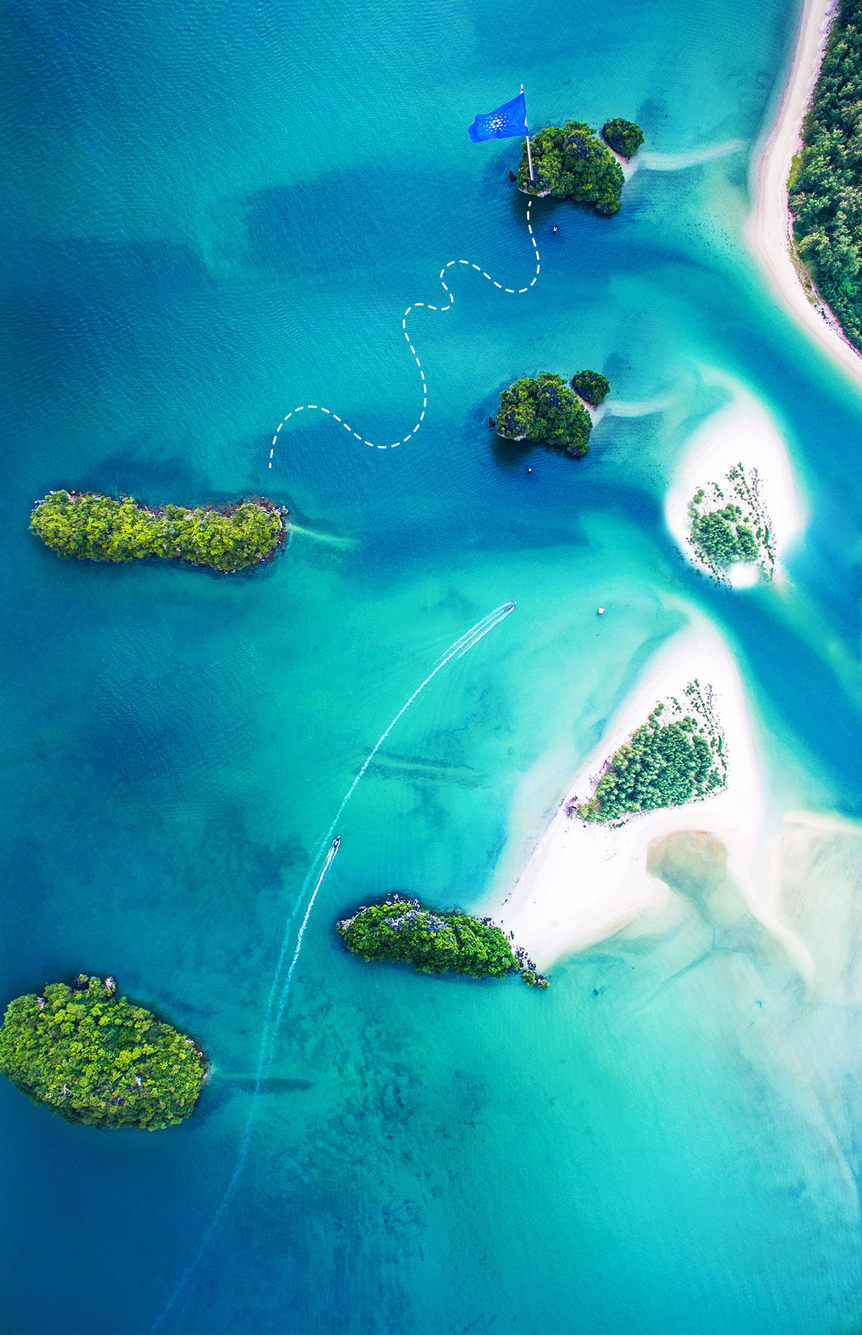
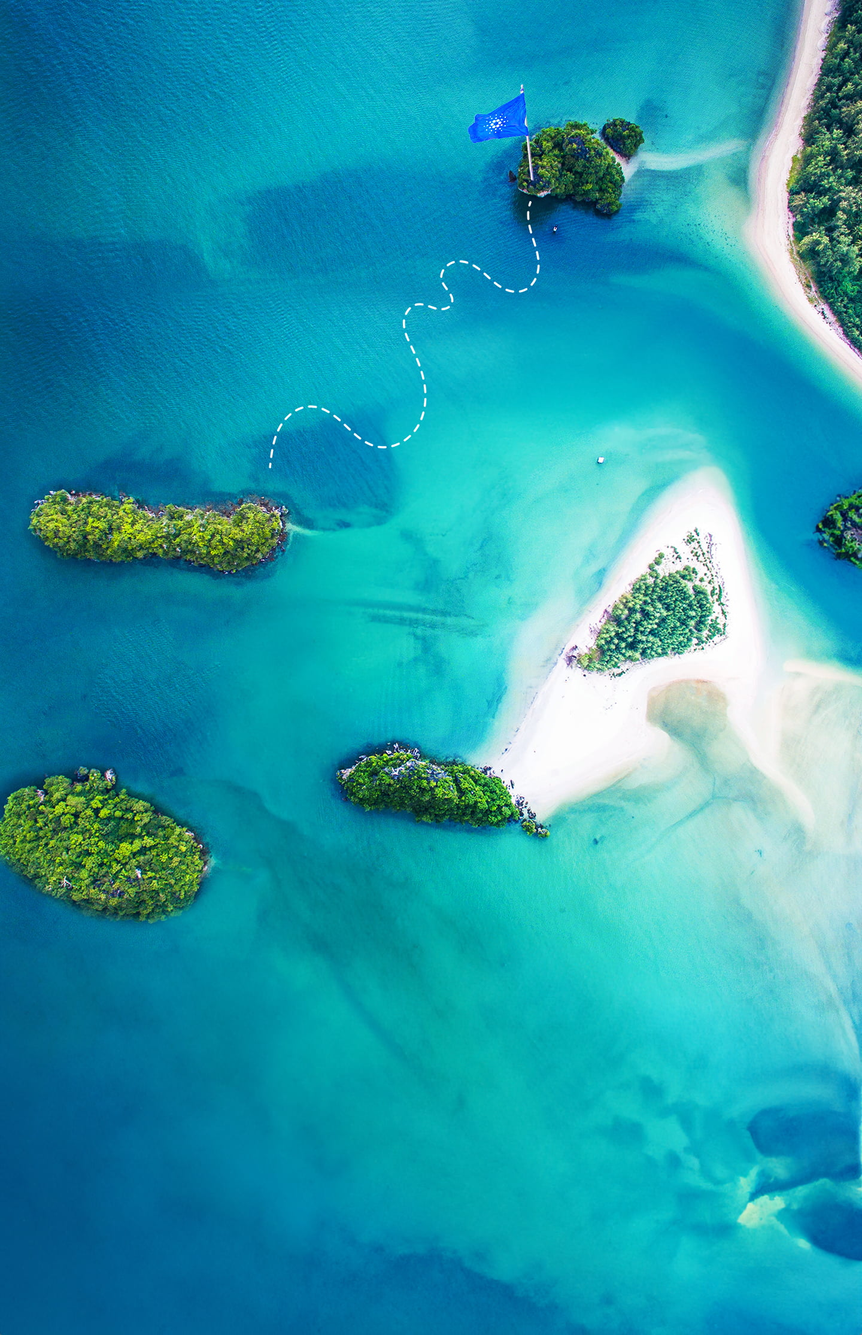
feat: Improve desktop homepage styling (#44)
* feat: Improve desktop homepage styling

* feat: Update desktop background image

* fix: Footer background color on large screens

* fix: Improve footer column spacing

diff --git a/src/components/HomepageFeatures/index.tsx b/src/components/HomepageFeatures/index.tsx
@@ -1,22 +1,20 @@
 import React, { ComponentType } from "react";
 import clsx from "clsx";
 import styles from "./styles.module.css";
-import Link from '@docusaurus/Link';
 
 // Images
 import boat from "@site/static/img/boat.png";
 import SpoHatImage from "@site/static/img/spo-hat.svg";
 import DrepSkull from "@site/static/img/drep-sab.svg";
-import CCMap from "@site/static/img/cc-map.svg";
+// import CCMap from "@site/static/img/cc-map.svg";
 import ChestOfMoney from "@site/static/img/chest-of-money.svg";
 
 // trail
-import TrailLeft from "@site/static/img/trail/left.svg"
-import TrailRight from "@site/static/img/trail/right.svg"
-import TrailBottom from "@site/static/img/trail/bottom.svg"
+import TrailLeft from "@site/static/img/trail/left.svg";
+import TrailRight from "@site/static/img/trail/right.svg";
+import TrailBottom from "@site/static/img/trail/bottom.svg";
 
 import { Cta } from "../Cta";
-
 
 type FeatureItem = {
   title: string;
@@ -36,7 +34,7 @@ const FeatureList: FeatureItem[] = [
         for all other members. Learn more about becoming a Sancho SPO today!
       </>
     ),
-    href: '/roles/spo',
+    href: "/roles/spo",
     cta: "Learn more"
   },
   {
@@ -49,7 +47,7 @@ const FeatureList: FeatureItem[] = [
         of the participants. Become a Sancho DRep today!
       </>
     ),
-    href: '/roles/drep',
+    href: "/roles/drep",
     cta: "Learn more"
   },
   /*{
@@ -75,24 +73,36 @@ const FeatureList: FeatureItem[] = [
         Integrating your favorite ideas on SanchoNet today!!!
       </>
     ),
-    href: '/roles/dev',
+    href: "/roles/dev",
     cta: "Learn more"
   }
 ];
 
-function Feature({ title, img: Image, description, href, cta }: FeatureItem) {
+function Feature({
+  title,
+  img: Image,
+  description,
+  href,
+  cta
+}: FeatureItem) {
   return (
     <div className={styles.feature}>
-      <div className={styles['feature__img-container']}>
-      {typeof Image === "string" ? <img src={Image} className={styles.feature__img} /> : <Image />}
+      <div className={styles["feature__img-container"]}>
+        {typeof Image === "string" ? (
+          <img src={Image} className={styles.feature__img} />
+        ) : (
+          <Image />
+        )}
       </div>
-      <h2 className={styles.feature__heading}>{title}</h2>
-      <p className={styles.feature__copy}>{description}</p>
-      {href && cta ? (
-        <Cta appearance="secondary" href={href}>
-          {cta}
-        </Cta>
-      ) : null}
+      <div className={styles["feature__text-container"]}>
+        <h2 className={styles.feature__heading}>{title}</h2>
+        <p className={styles.feature__copy}>{description}</p>
+        {href && cta ? (
+          <Cta appearance="secondary" href={href}>
+            {cta}
+          </Cta>
+        ) : null}
+      </div>
     </div>
   );
 }
@@ -104,9 +114,9 @@ export default function HomepageFeatures(): JSX.Element {
         {FeatureList.map((props, idx) => (
           <Feature key={idx} {...props} />
         ))}
-        <TrailLeft className={clsx(styles.trail, styles['trail--left'])} />
-        <TrailRight className={clsx(styles.trail, styles['trail--right'])} />
-        <TrailBottom className={clsx(styles.trail, styles['trail--bottom'])} />
+        <TrailLeft className={clsx(styles.trail, styles["trail--left"])} />
+        <TrailRight className={clsx(styles.trail, styles["trail--right"])} />
+        <TrailBottom className={clsx(styles.trail, styles["trail--bottom"])} />
         <img className={styles.boat} src={boat} alt="Boat" />
       </section>
     </div>

diff --git a/src/components/HomepageFeatures/styles.module.css b/src/components/HomepageFeatures/styles.module.css
@@ -1,8 +1,5 @@
 .features {
   position: relative;
-  display: grid;
-  grid-template-columns: 1fr 1fr;
-  gap: 50px;
   padding: 100px 60px;
   width: 100%;
   background-color: var(--ifm-background-color);
@@ -13,8 +10,6 @@
 
 @media screen and (max-width: 996px) {
   .features {
-    grid-template-columns: 1fr;
-    gap: 25px;
     padding: 50px 10px;
   }
 }
@@ -25,19 +20,37 @@
 }
 
 .feature {
-  text-align: center;
-  max-width: 430px;
+  display: flex;
   margin: 0 auto;
+  margin-bottom: 50px;
+}
+.feature__text-container {
+  max-width: 545px;
+}
+
+@media screen and (min-width: 997px) {
+  .feature:nth-child(2n) {
+    flex-direction: row-reverse;
+  }
+}
+@media screen and (max-width: 996px) {
+  .feature {
+    flex-direction: column;
+    text-align: center;
+    max-width: 430px;
+    margin-bottom: 25px;
+  }
 }
 
 .feature__img-container {
   margin: auto;
   margin-bottom: 30px;
   overflow: hidden;
-  display:flex;
+  display: flex;
   align-items: center;
   justify-content: center;
   height: 175px;
+  flex-shrink: 0;
 }
 .feature__img {
   max-width: 100%;
@@ -68,7 +81,6 @@
     transform: translateY(-16.67%) translateX(-50%);
   }
 }
-
 
 .trail {
   position: absolute;

diff --git a/src/css/custom.css b/src/css/custom.css
@@ -87,10 +87,6 @@ body[data-homepage] {
       rgba(1, 107, 130, 1) 90%
     );
   }
-  body[data-homepage] .footer--dark {
-    /* Make footer opaque on large screen */
-    --ifm-footer-background-color: rgba(1, 107, 130, 1);
-  }
 }
 /* Mobile */
 @media screen and (max-width: 996px) {
@@ -170,4 +166,12 @@ body[data-homepage] .footer--dark {
 .footer__copyright {
   font-size: 10px;
   line-height: 1.4;
+}
+
+/* Larger desktop */
+@media screen and (min-width: 1441px) {
+  body[data-homepage] .footer--dark {
+    /* Make footer opaque on large screen */
+    --ifm-footer-background-color: rgba(1, 107, 130, 1);
+  }
 }

diff --git a/src/theme/Footer/Layout/styles.module.css b/src/theme/Footer/Layout/styles.module.css
@@ -7,11 +7,14 @@
 .footer__inner :global .footer__link-item {
     white-space: nowrap;
 }
-.footer__logo-container,
+.footer__logo-container {
+    flex-basis: 440px;
+    margin-bottom: 60px;
+    margin-right: auto;
+}
 
 .footer__links-container {
-    width: 50%;
-    margin-bottom: 60px;
+    flex-grow: 1;
 }
 
 @media screen and (max-width: 996px) {
